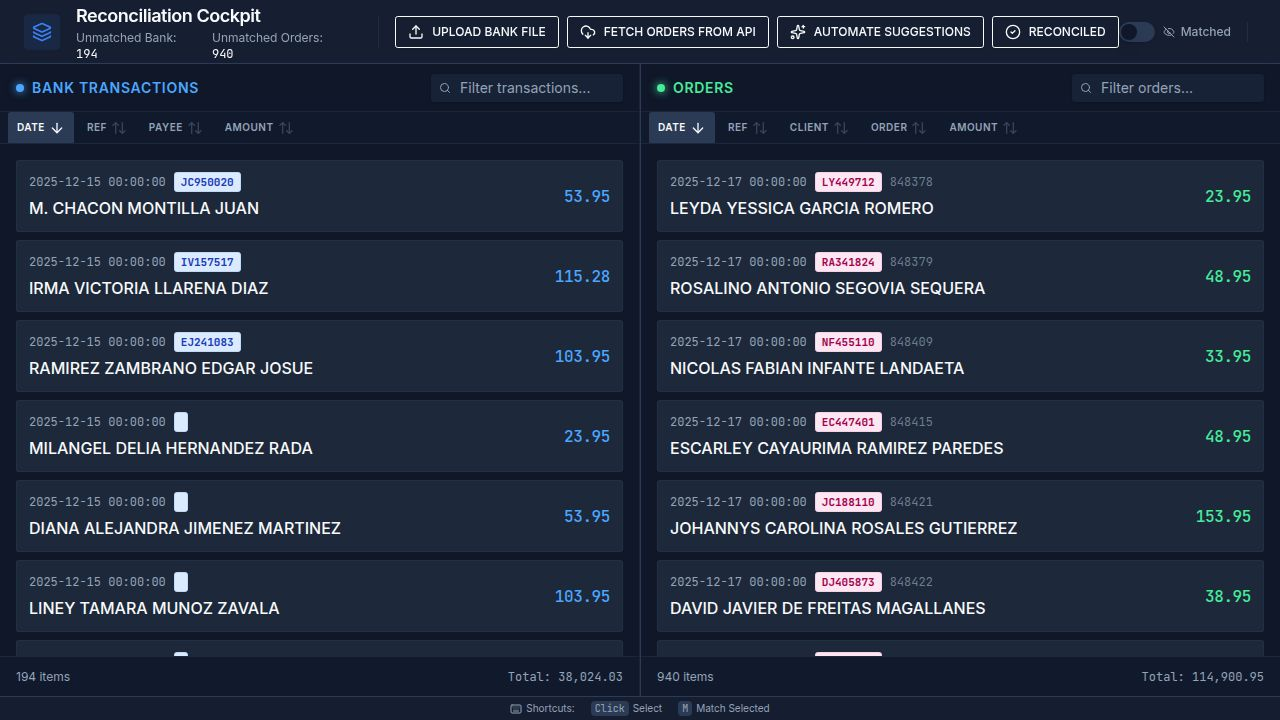
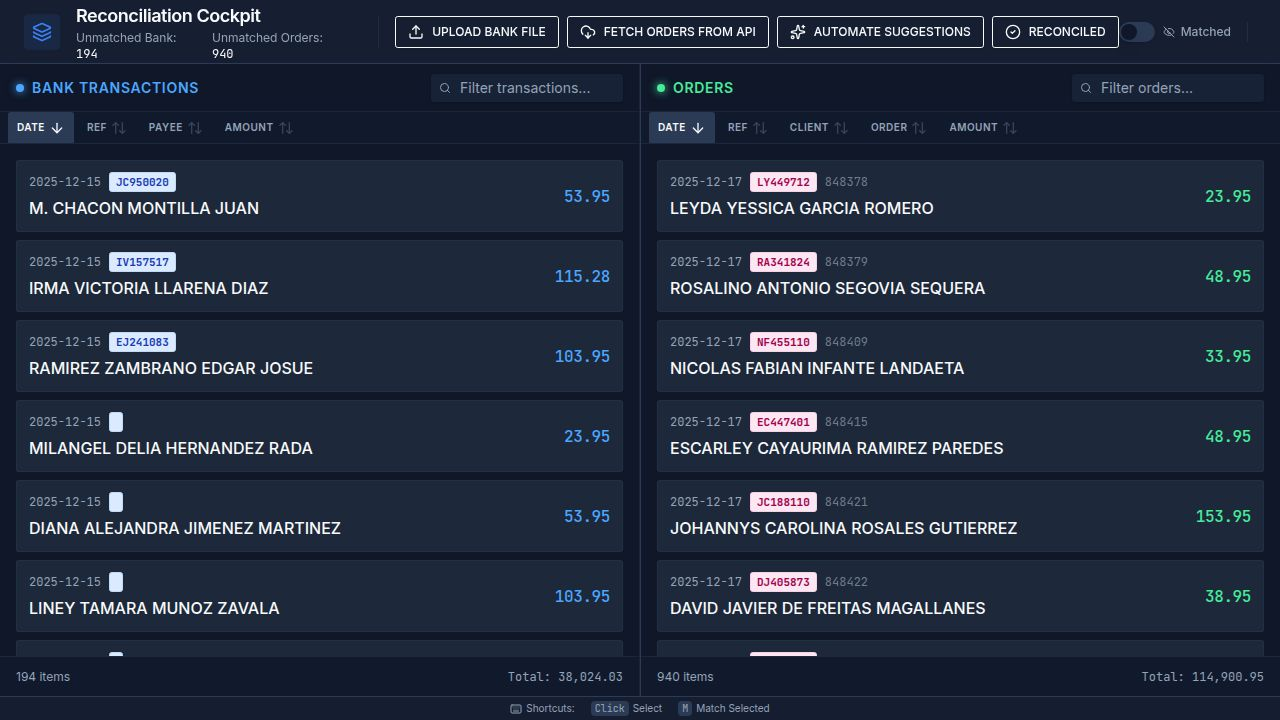
Update date format to display year-month-day correctly
Adjust date parsing logic in transaction and order data to split by space instead of 'T', ensuring 'yyyy-mm-dd' format is consistently displayed.

Replit-Commit-Author: Agent
Replit-Commit-Session-Id: 504de01b-8d18-4f21-a41b-a23eda9aa026
Replit-Commit-Checkpoint-Type: intermediate_checkpoint
Replit-Commit-Event-Id: cc90cf4b-9344-41c4-9c96-5ed91b1cf437
Replit-Commit-Screenshot-Url: https://storage.googleapis.com/screenshot-production-us-central1/c8e6a26f-bb90-4e8c-aa53-3df38c2706b3/504de01b-8d18-4f21-a41b-a23eda9aa026/HrgmVR7
Replit-Helium-Checkpoint-Created: true

diff --git a/client/src/pages/reconciliation.tsx b/client/src/pages/reconciliation.tsx
@@ -577,7 +577,7 @@ export default function ReconciliationPage() {
           const orders = await ordersResponse.json();
           const transformedRemittances: Remittance[] = orders.map((o: any) => ({
             id: String(o.orderId),
-            date: o.orderDate?.split('T')[0] || '',
+            date: o.orderDate?.split(' ')[0] || '',
             customerName: o.customerName || '',
             reference: o.orderBankReference || '',
             orderNumber: String(o.orderId),
@@ -639,7 +639,7 @@ export default function ReconciliationPage() {
           // Transform API data to match frontend interface
           const transformedTransactions: BankTransaction[] = transactions.map((t: any) => ({
             id: t.transactionHash,
-            date: t.transactionDate?.split('T')[0] || '',
+            date: t.transactionDate?.split(' ')[0] || '',
             payee: t.payerSender,
             reference: t.extractedReference || '',
             amount: parseFloat(t.creditAmount),
@@ -711,7 +711,7 @@ export default function ReconciliationPage() {
           const bankData = await bankResponse.json();
           const transformedBank: BankTransaction[] = bankData.map((t: any) => ({
             id: t.transactionHash,
-            date: t.transactionDate?.split('T')[0] || '',
+            date: t.transactionDate?.split(' ')[0] || '',
             payee: t.payerSender || '',
             reference: t.extractedReference || '',
             amount: parseFloat(t.creditAmount) || 0,
@@ -725,7 +725,7 @@ export default function ReconciliationPage() {
           const orders = await ordersResponse.json();
           const transformedRemittances: Remittance[] = orders.map((o: any) => ({
             id: String(o.orderId),
-            date: o.orderDate?.split('T')[0] || '',
+            date: o.orderDate?.split(' ')[0] || '',
             customerName: o.customerName || '',
             reference: o.orderBankReference || '',
             orderNumber: String(o.orderId),
@@ -1611,7 +1611,7 @@ const ReconciledBatchGroup = ({ batch }: { batch: {
                     <div className="flex items-center gap-2">
                       <CheckCircle2 className="w-3 h-3 text-green-600" />
                       <span className="text-xs font-mono text-muted-foreground">
-                        {t.transactionDate?.split('T')[0]}
+                        {t.transactionDate?.split(' ')[0]}
                       </span>
                       <Badge variant="secondary" className="text-[10px] h-4 px-1 font-mono">
                         {t.extractedReference || '-'}
@@ -1629,7 +1629,7 @@ const ReconciledBatchGroup = ({ batch }: { batch: {
                   <div className="flex items-center gap-2">
                     <CheckCircle2 className="w-3 h-3 text-green-600" />
                     <span className="text-xs font-mono text-muted-foreground">
-                      {order.orderDate?.split('T')[0]}
+                      {order.orderDate?.split(' ')[0]}
                     </span>
                     <Badge variant="secondary" className="text-[10px] h-4 px-1 font-mono bg-pink-50 text-pink-700 dark:bg-pink-900/20 dark:text-pink-400">
                       {order.orderBankReference || '-'}
